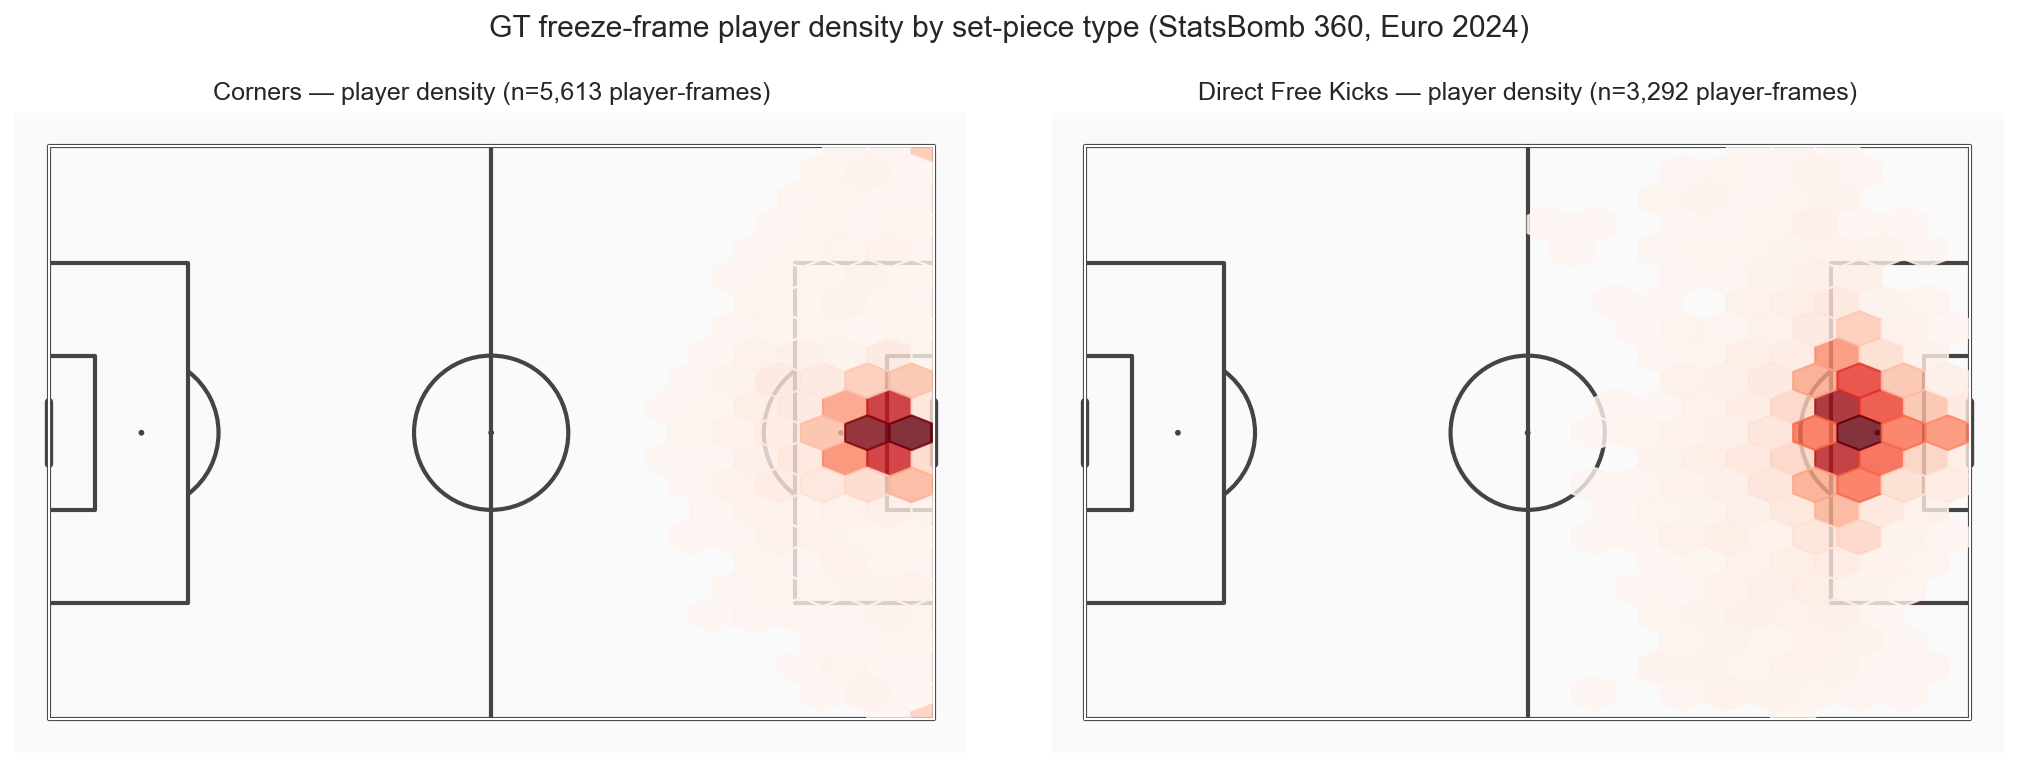
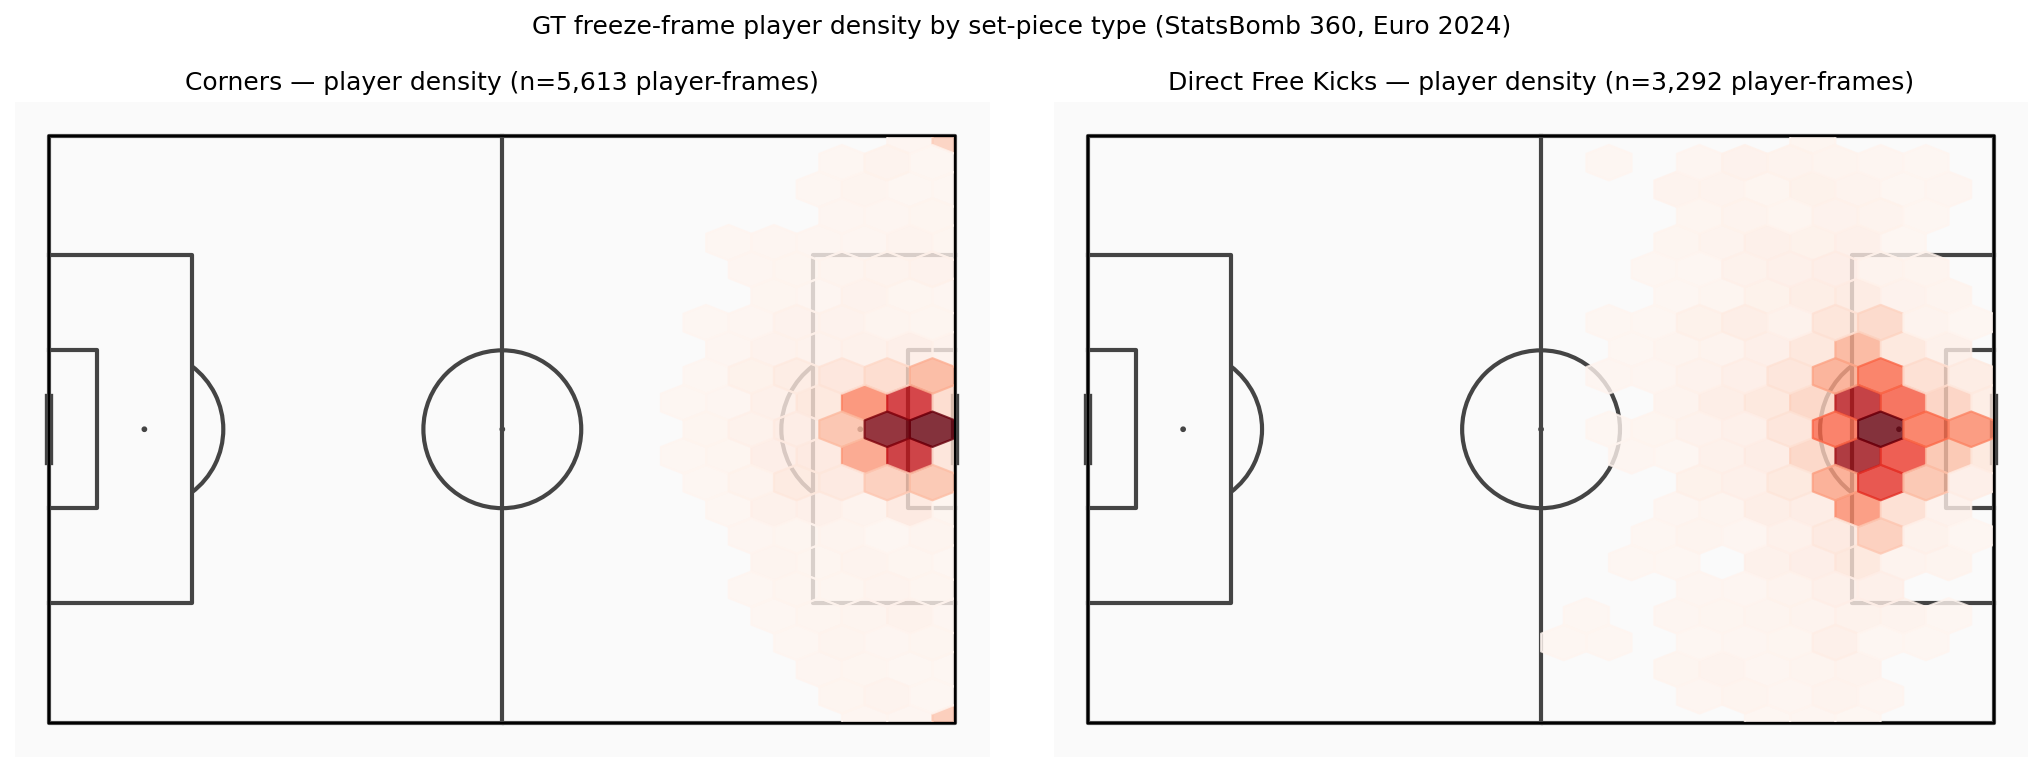
invert y-axis and improve output figures

diff --git a/scripts/spatial_pc_error.py b/scripts/spatial_pc_error.py
@@ -124,6 +124,7 @@ def render_heatmap(cells: pd.DataFrame) -> None:
     grid = cells.pivot(index="iy", columns="ix", values="mean_abs_err").to_numpy()
     pitch = Pitch(pitch_type="custom", pitch_length=PITCH_LENGTH_M, pitch_width=PITCH_WIDTH_M, line_zorder=2)
     fig, ax = pitch.draw(figsize=(9, 6))
+    ax.invert_yaxis()  # SoccerNet y grows toward the main camera; match the broadcast view
     im = ax.imshow(
         grid,
         extent=(0, PITCH_LENGTH_M, 0, PITCH_WIDTH_M),
